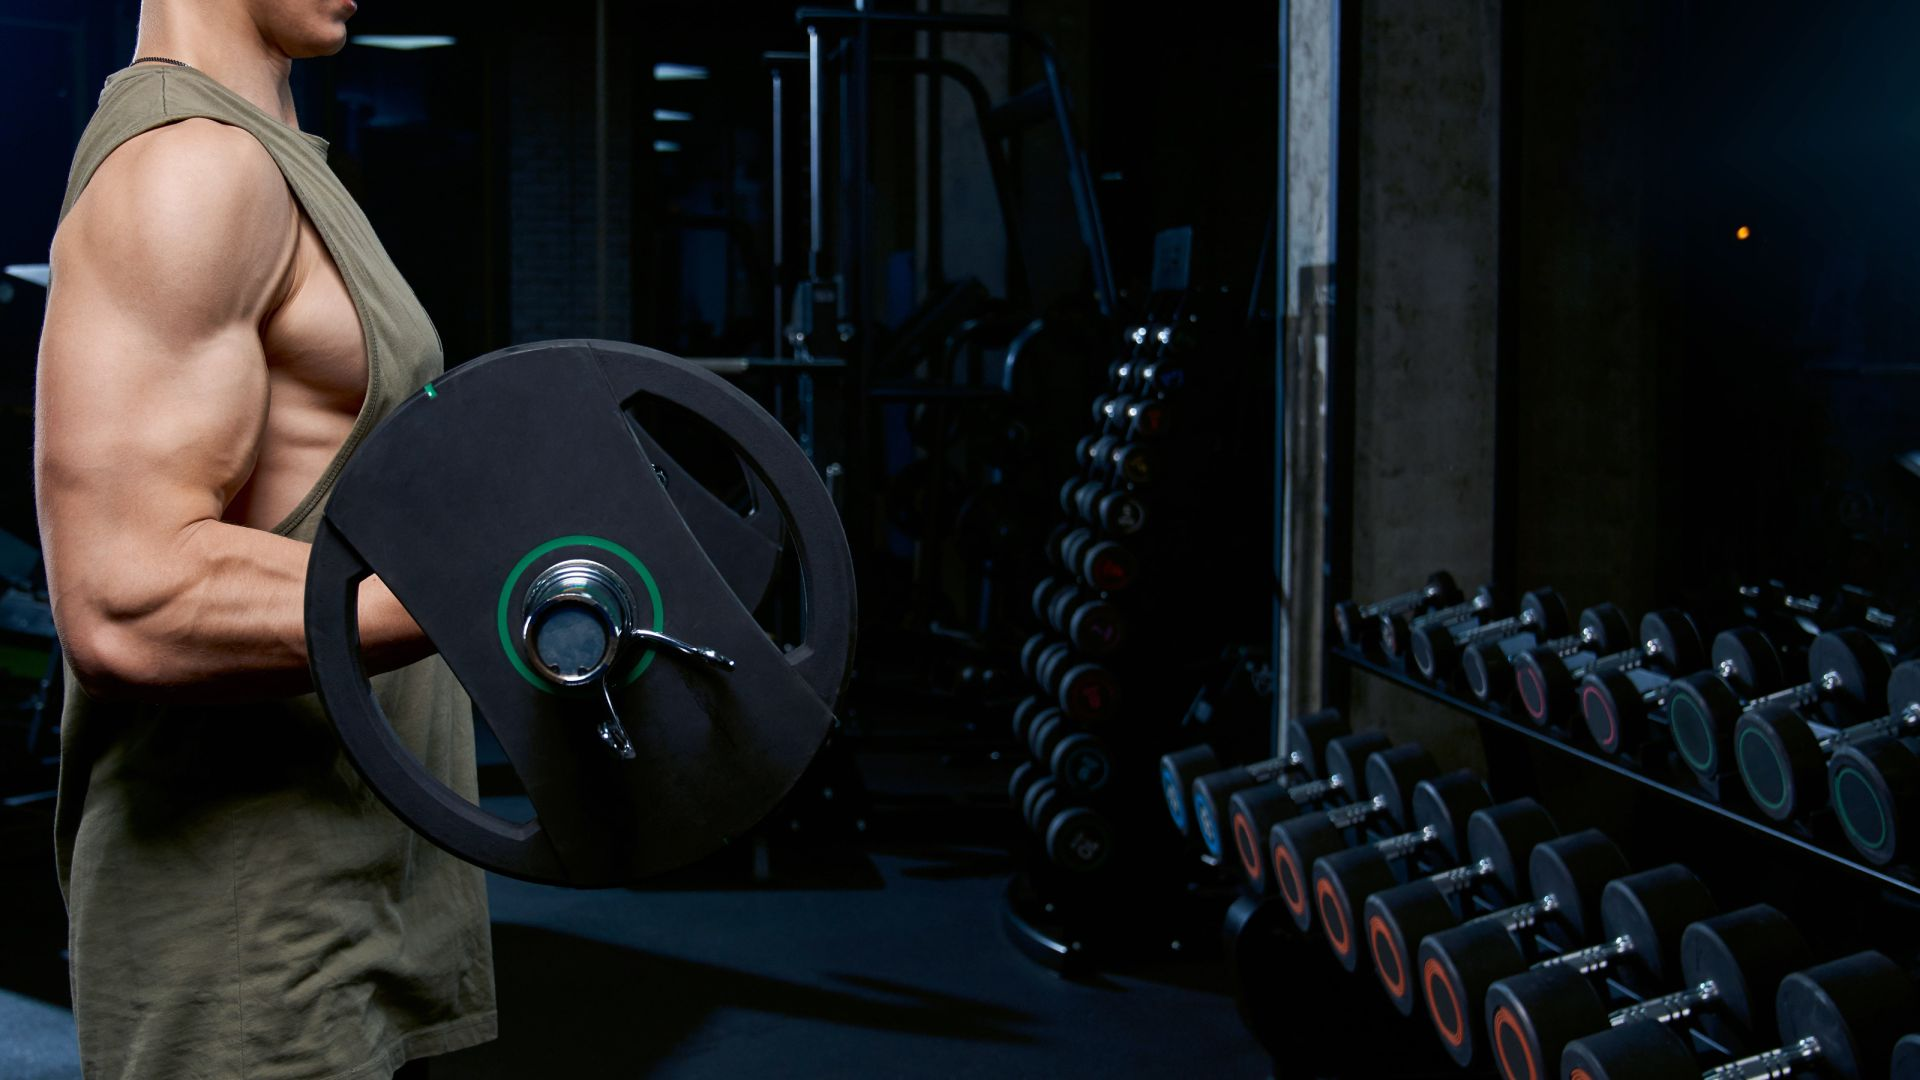
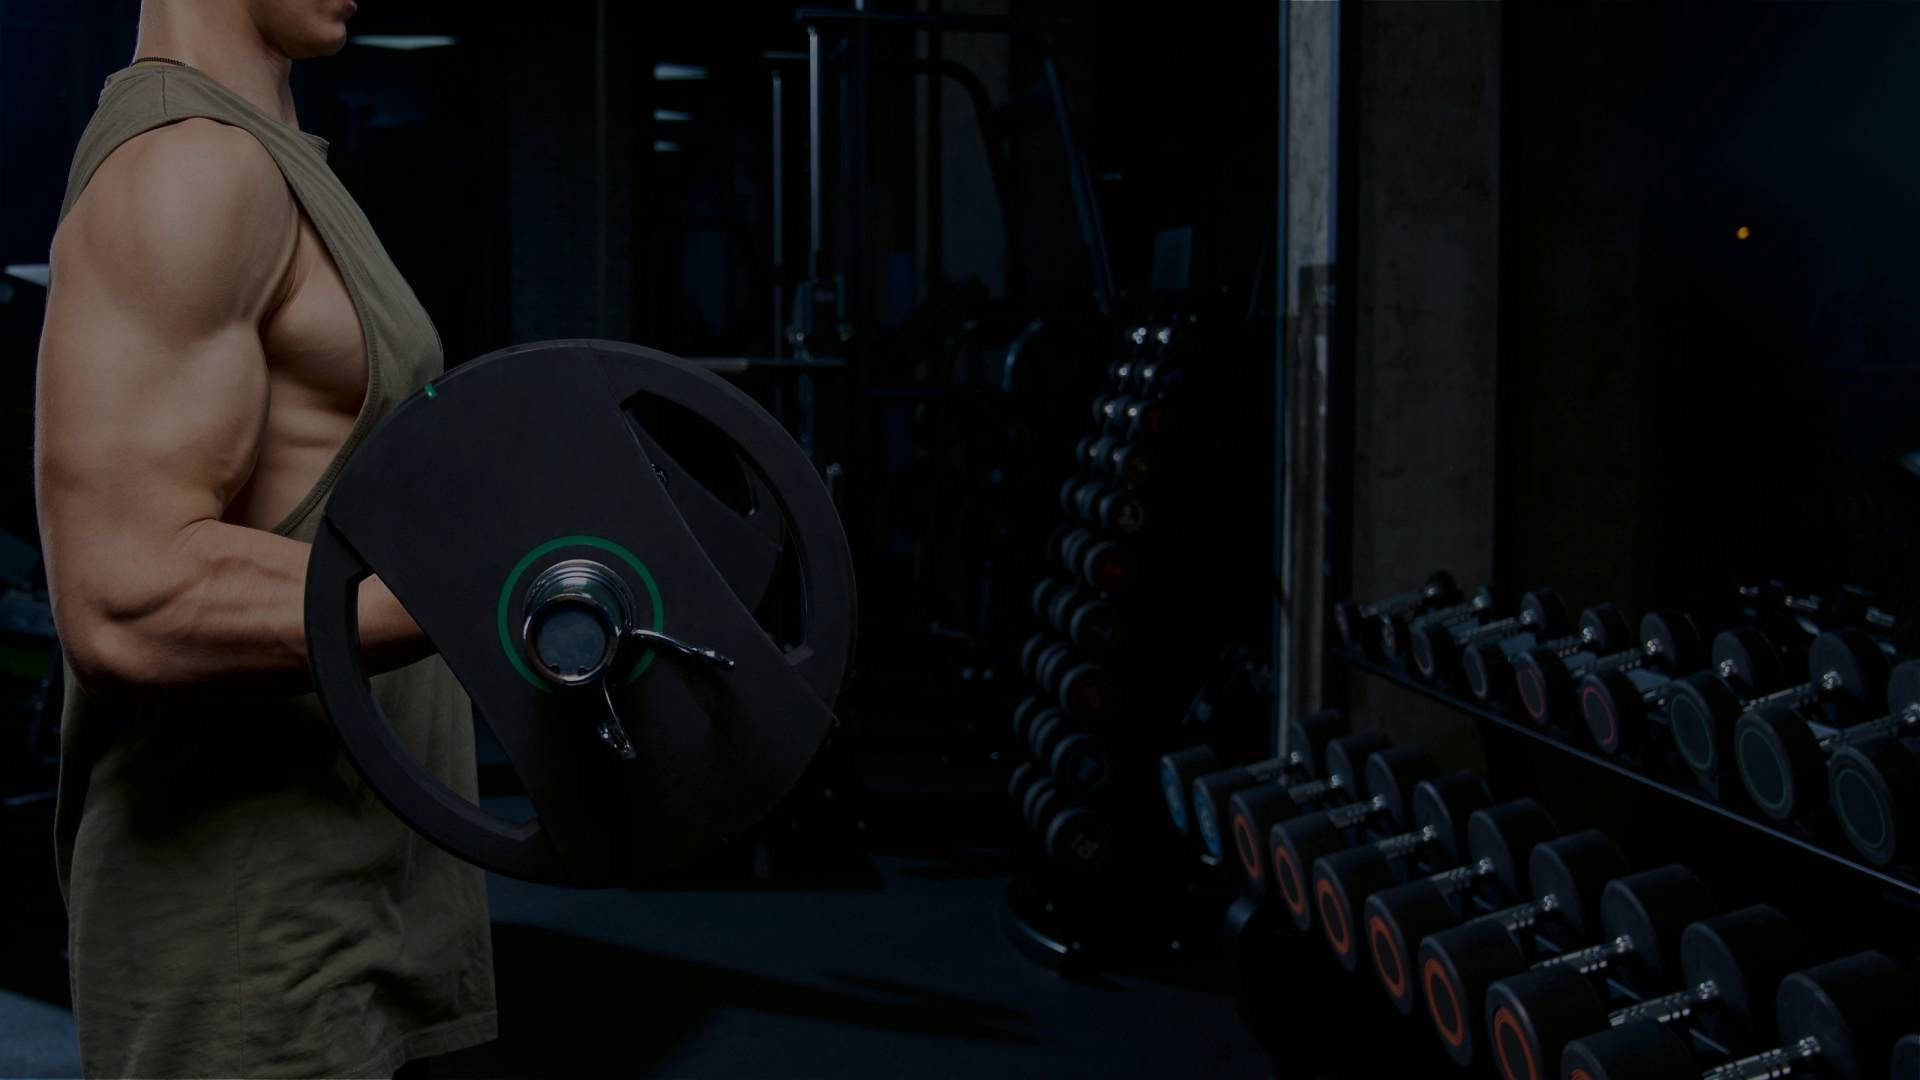
feat(home): create home page
Add home page with layout and navigation buttons for other pages.

diff --git a/pages/index.vue b/pages/index.vue
@@ -1,11 +1,49 @@
 <template>
-  <div class="bg-home-mobile md:bg-home-desktop min-h-screen">
-    <h1 class="text-8xl">Hello World</h1>
+  <div
+    class="flex flex-col lg:flex-row items-center justify-around px-6 lg:justify-around bg-home-mobile sm:bg-home-desktop min-h-screen"
+  >
+    <div>
+      <h1>
+        <AppLogo />
+      </h1>
+      <h2 class="italic text-lg sm:text-2xl mt-7">
+        Know your body <strong>measures</strong>, create your
+        <strong>diet</strong> and reach your <strong>goals</strong>.
+        <br />#<strong>IIFYM</strong>
+      </h2>
+    </div>
+    <div class="w-full lg:w-1/5">
+      <nav class="flex flex-col gap-3 sm:gap-6">
+        <template v-for="page of siteMap">
+          <NuxtLink :key="page.url" :to="page.url">
+            <AppButton color="secondary" class="text-xl sm:text-2xl">
+              {{ page.label }}
+            </AppButton>
+          </NuxtLink>
+        </template>
+      </nav>
+      <h3 class="italic text-center lg:text-xl mt-7">
+        “What gets <strong>measure</strong> gets <strong>managed</strong>.”
+      </h3>
+    </div>
   </div>
 </template>
 
 <script lang="ts">
-import Vue from 'vue'
+import { defineComponent } from '@nuxtjs/composition-api'
+import AppLogo from '@/components/AppLogo.vue'
+import AppButton from '@/components/AppButton.vue'
+import { siteMap } from '@/utils/siteMap'
 
-export default Vue.extend({})
+export default defineComponent({
+  components: {
+    AppLogo,
+    AppButton,
+  },
+  setup() {
+    return {
+      siteMap: Object.values(siteMap),
+    }
+  },
+})
 </script>

diff --git a/components/AppButton.vue b/components/AppButton.vue
@@ -1,0 +1,38 @@
+<template>
+  <button :class="['button', color]">
+    <slot />
+  </button>
+</template>
+
+<script lang="ts">
+import { defineComponent, PropType } from '@nuxtjs/composition-api'
+
+const validColors = ['primary', 'secondary']
+
+export default defineComponent({
+  props: {
+    color: {
+      type: String as PropType<string>,
+      required: false,
+      default: 'primary',
+      validator: (value: string) => validColors.includes(value),
+    },
+  },
+})
+</script>
+
+<style scoped>
+.button {
+  @apply outline-none transition-all duration-500 transform
+  hover:bg-opacity-90 active:scale-y-105 shadow-md
+  py-3 px-2 font-bold uppercase tracking-wide rounded-xl w-full;
+}
+
+.primary {
+  @apply bg-opacity-80 bg-turbo text-black;
+}
+
+.secondary {
+  @apply bg-black bg-opacity-40 border border-turbo;
+}
+</style>

diff --git a/tailwind.config.js b/tailwind.config.js
@@ -1,6 +1,6 @@
 module.exports = {
   purge: [],
-  darkMode: true, // or 'media' or 'class'
+  darkMode: false, // or 'media' or 'class'
   theme: {
     extend: {
       colors: {
@@ -14,6 +14,10 @@ module.exports = {
         'home-desktop': 'url("assets/images/home-desktop.jpg")',
         'home-mobile': 'url("assets/images/home-mobile.jpg")',
       }),
+      fontSize: {
+        '8xl': '6.5rem',
+        '9xl': '12.4rem',
+      },
     },
   },
   variants: {

diff --git a/components/AppLogo.vue b/components/AppLogo.vue
@@ -1,0 +1,20 @@
+<template>
+  <div class="logo">
+    <span class="logo__easy-body">Easy Body</span>
+    <span class="logo__calc">Calc</span>
+  </div>
+</template>
+
+<style scoped>
+.logo {
+  @apply flex flex-col font-black italic uppercase leading-none;
+}
+
+.logo__easy-body {
+  @apply text-5xl md:text-8xl tracking-tight;
+}
+
+.logo__calc {
+  @apply text-7xl text-right md:text-left md:text-9xl text-turbo tracking-wide;
+}
+</style>

diff --git a/utils/siteMap.ts b/utils/siteMap.ts
@@ -1,0 +1,20 @@
+const siteMap = {
+  BMI: {
+    label: 'BMI rate',
+    url: '/bmi',
+  },
+  BODY_FAT: {
+    label: 'Body fat',
+    url: '/body-fat',
+  },
+  MACROS: {
+    label: 'Daily macros',
+    url: '/daily-macros',
+  },
+  CALORIES: {
+    label: 'Daily calories',
+    url: '/daily-calories',
+  },
+}
+
+export { siteMap }

diff --git a/jest.config.js b/jest.config.js
@@ -10,7 +10,7 @@ module.exports = {
     '^.+\\.js$': 'babel-jest',
     '.*\\.(vue)$': 'vue-jest',
   },
-  collectCoverage: true,
+  collectCoverage: false,
   collectCoverageFrom: [
     '<rootDir>/components/**/*.vue',
     '<rootDir>/pages/**/*.vue',

diff --git a/nuxt.config.js b/nuxt.config.js
@@ -29,5 +29,9 @@ export default {
     exposeConfig: false,
     config: {},
   },
-  build: {},
+  build: {
+    babel: {
+      plugins: [['@babel/plugin-proposal-private-methods', { loose: true }]],
+    },
+  },
 }
